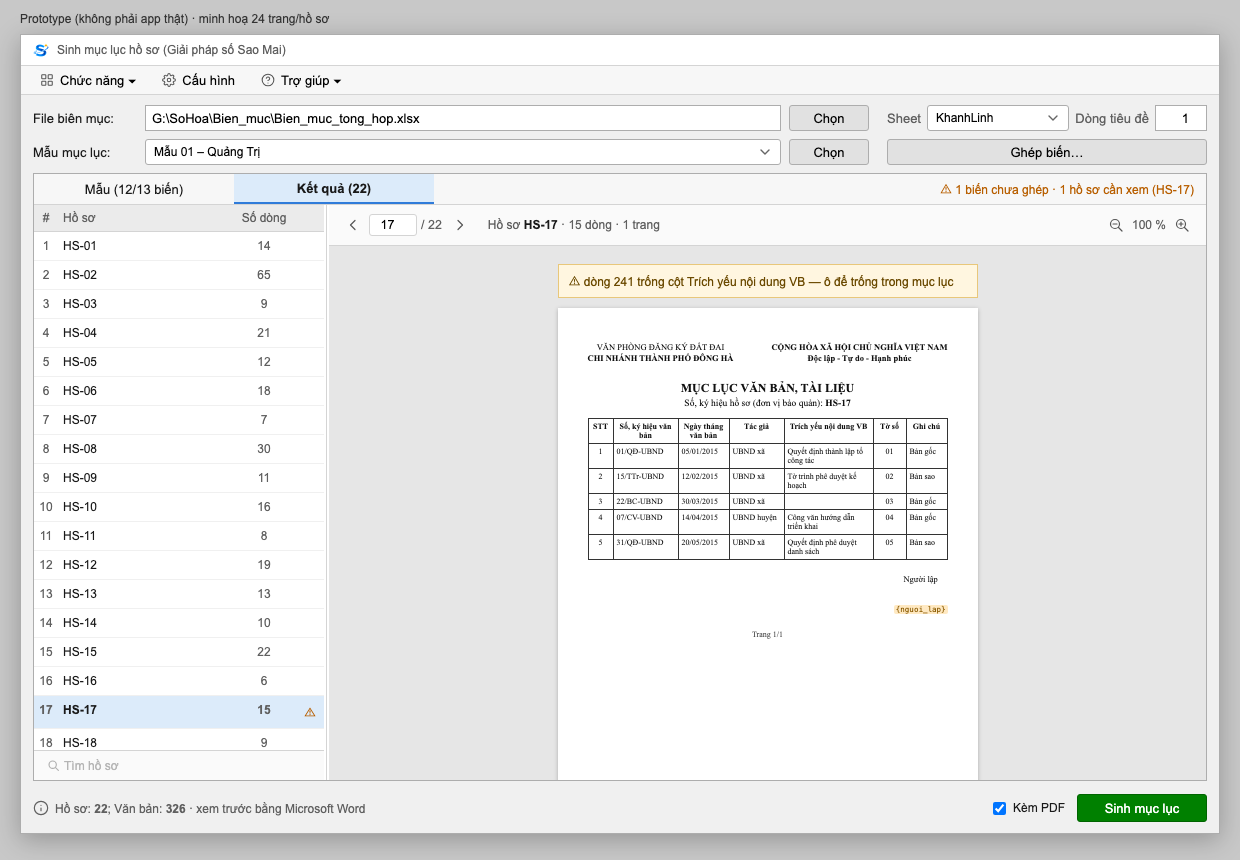
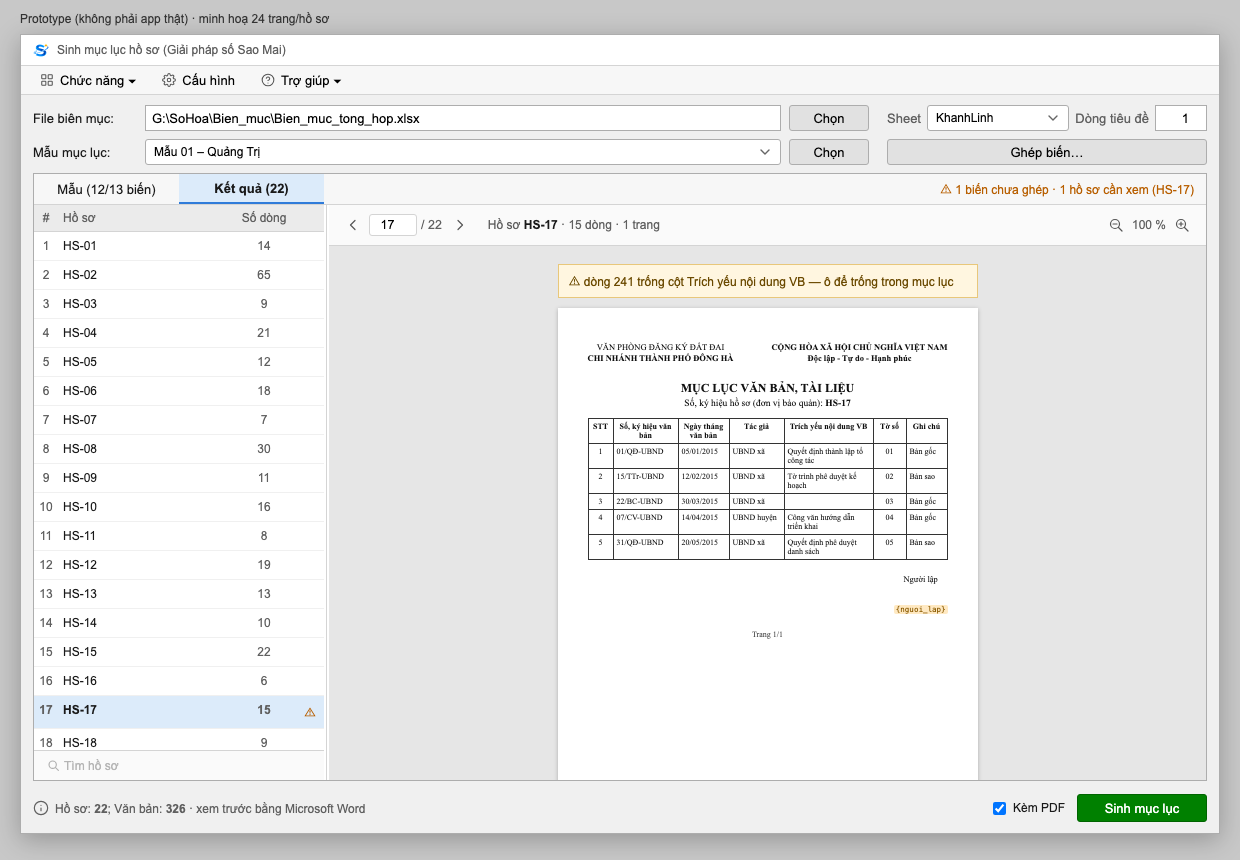
docs(prototype): size Sinh muc luc tabs to sidebar width

Changed region(s): [[0.0306, 0.1814, 0.3677, 0.2419]]

diff --git a/plans/261027-1736-tach-van-ban-tu-dong/prototype-tach-van-ban.html b/plans/261027-1736-tach-van-ban-tu-dong/prototype-tach-van-ban.html
@@ -495,7 +495,8 @@
   #manMucLuc .tabkho .dem.canh { background:#FFF1D6; color:#8A5A00; }
   #manMucLuc .dieuhuong .nut { height:24px; padding:0 10px; font-size:12px; }
   .canhml { color:#B85F00; font-weight:bold; text-align:center; }
-  #manMucLuc .tabkho { grid-template-columns:200px 200px 1fr; }
+  #manMucLuc .tabkho { grid-template-columns:calc(var(--rong-trai, 290px) / 2) calc(var(--rong-trai, 290px) / 2) 1fr; } /* 2 tab cộng lại = độ rộng sidebar */
+  #manMucLuc .tabkho > span { white-space:nowrap; overflow:hidden; text-overflow:ellipsis; padding:0 6px; }
   #manMucLuc .canhtab { justify-self:end; padding-right:12px; color:#B85F00; font-size:12px; cursor:pointer; }
   #manMucLuc .canhtab:hover { text-decoration:underline; }
   #manMucLuc .tabkho > span { cursor:pointer; height:100%; display:flex; align-items:center; justify-content:center; box-sizing:border-box; }
@@ -2111,10 +2112,10 @@
     e.preventDefault(); thuPhongVB(e.deltaY < 0 ? 1 : -1);
   }, { passive: false });
   // Kéo thả đổi độ rộng cột trái (160–520 px); phím ←/→ khi thanh kéo đang focus
-  function ganKeo(keo, trai, khoa, min, max) {
+  function ganKeo(keo, trai, khoa, min, max, khiDoi) {
     var x0 = 0, w0 = 0;
     function dat(w, khongLuu) {
-      w = Math.max(min, Math.min(max, w)); trai.style.width = w + 'px';
+      w = Math.max(min, Math.min(max, w)); trai.style.width = w + 'px'; if (khiDoi) khiDoi(w);
       if (!khongLuu) { try { localStorage.setItem(khoa, w); } catch (e) {} }
     }
     try { var daLuu = +localStorage.getItem(khoa); if (daLuu) dat(daLuu, true); } catch (e) {}
@@ -2675,7 +2676,7 @@
   if (h === '#muc-luc-ghep' || h === '#muc-luc-ghep-chon') { if (h === '#muc-luc-ghep-chon') ml.mo = 4; moGhep(); }
   if (h === '#muc-luc-mau-sua') { ml.moTrai = 4; veMucLuc(); }
   ganNguon($('mlBien'), 'mo'); ganNguon($('mlTrai'), 'moTrai');
-  ganKeo($('mlKeo'), $('mlTrai'), 'smdema4.rongTraiML', 220, 600);
+  ganKeo($('mlKeo'), $('mlTrai'), 'smdema4.rongTraiML', 220, 600, function (w) { $('manMucLuc').style.setProperty('--rong-trai', w + 'px'); });
   // Bấm ra ngoài ô / danh sách nguồn thì đóng danh sách đang mở
   document.addEventListener('click', function (e) {
     if ((ml.mo < 0 && ml.moTrai < 0) || e.target.closest('.dsml, .oml')) return;
